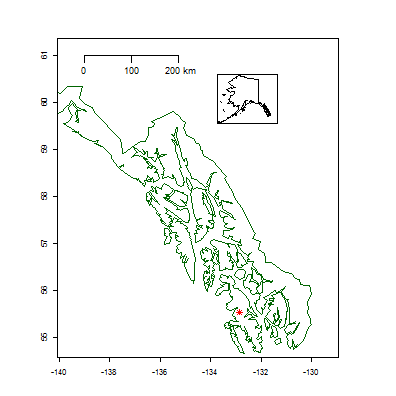
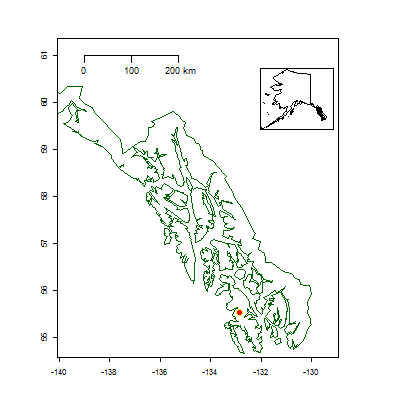
Minor edits to map of SEAK

Changed region(s): [[0.5455, 0.1515, 0.8485, 0.3333], [0.7576, 0.1818, 0.7879, 0.2121]]

diff --git a/BBLReport.html b/BBLReport.html
@@ -176,7 +176,7 @@ hr {
 
 <p>Limited information from past studies is available to determine rainbow trout population age composition and abundance in Black Bear Lake during spring and summer periods when spawning habitat may be limited due to lake drawdown. Regulated flows and lake drawdown from the BBLH Project change the amount of available habitat during spawning, incubation, and rearing for rainbow trout. Based on lake-level data supplied by BBLH, trapping data from the 1997 population estimate study <cite>(Martin Environmental 1998)</cite>, and length-at-age data <cite>(Environaid 1982)</cite>, there appeared to be recruitment to the lake population even when the lake outlet was dewatered during spawning and incubation, but age analysis and spawning observations were cursory and incomplete. Further information was needed to determine age distribution and adult population status.</p>
 
[2 lines of base64/hex data omitted]
 
 <h3>Study Area</h3>
 
@@ -387,35 +387,35 @@ and</p></li>
 
 <h3>References</h3>
 
-<p><cite>Anderson, R. O., and S. J. Gutreuter. 1983. Length, weight, and associated structural indices. In: L.A. Nielsen, D. L. Johnson, and S. S. Lampton (eds). Fisheries Techniques. American Fisheries Society, Bethesda, Maryland.</cite></p>
+<p><cite>Anderson, R. O., and S. J. Gutreuter. 1983.  Length, weight, and associated structural indices. In: L.A. Nielsen, D. L. Johnson, and S. S. Lampton (eds). Fisheries Techniques. American Fisheries Society, Bethesda, Maryland.</cite></p>
 
-<p><cite>Dowdey, S., and S. Wearden. 1991. Statistics for research. 2nd ed. John Wiley &amp; Sons, New York.</cite></p>
+<p><cite>Dowdey, S., and S. Wearden. 1991.  Statistics for research. 2nd ed. John Wiley &amp; Sons, New York.</cite></p>
 
-<p><cite>Environaid. 1982. Late-summer and fall observations in upper Black Bear Creek and Black Bear Lake.</cite></p>
+<p><cite>Environaid. 1982.  Late-summer and fall observations in upper Black Bear Creek and Black Bear Lake.</cite></p>
 
-<p><cite>Fulton, T. (1902) Rate of growth of seas fishes.  Sci. Invert. Fish. Div. Scot. Rept. 20.</cite></p>
+<p><cite>Fulton, T. 1902. Rate of growth of seas fishes.  Sci. Invert. Fish. Div. Scot. Rept. 20.</cite></p>
 
-<p><cite>Konopacky Environmental. 1993a. Proposed plans for Black Bear Lake rainbow trout population, bald eagle nest tree, and spotted frog presence-absence studies associated with the proposed Black Bear Lake Hydroelectric Project near Klawock, Prince of Wales Island, Southeast Alaska. Submitted to Alaska Power &amp; Telephone, Port Townsend, Washington.</cite></p>
+<p><cite>Konopacky Environmental. 1993a.  Proposed plans for Black Bear Lake rainbow trout population, bald eagle nest tree, and spotted frog presence-absence studies associated with the proposed Black Bear Lake Hydroelectric Project near Klawock, Prince of Wales Island, Southeast Alaska. Submitted to Alaska Power &amp; Telephone, Port Townsend, Washington.</cite></p>
 
-<p><cite>Konopacky Environmental. 1993b. Rainbow trout population, bald eagle nest tree, and spotted frog presence-absence studies associated with the proposed Black Bear Lake Hydroelectric Project near Klawock, Prince of Wales Island, Southeast Alaska. Submitted to Alaska Power &amp; Telephone, Port Townsend, Washington.</cite></p>
+<p><cite>Konopacky Environmental. 1993b.  Rainbow trout population, bald eagle nest tree, and spotted frog presence-absence studies associated with the proposed Black Bear Lake Hydroelectric Project near Klawock, Prince of Wales Island, Southeast Alaska. Submitted to Alaska Power &amp; Telephone, Port Townsend, Washington.</cite></p>
 
-<p><cite>Konopacky Environmental. 1995a. Second year of a five-year study of the rainbow trout population in Black Bear Lake, conducted in association with the FERC-licensed Black Bear Lake Hydroelectric Project near Klawock, Prince of Wales Island, Alaska, during 1994. Submitted to Alaska Power &amp; Telephone, Port Townsend, Washington.</cite></p>
+<p><cite>Konopacky Environmental. 1995a.  Second year of a five-year study of the rainbow trout population in Black Bear Lake, conducted in association with the FERC-licensed Black Bear Lake Hydroelectric Project near Klawock, Prince of Wales Island, Alaska, during 1994. Submitted to Alaska Power &amp; Telephone, Port Townsend, Washington.</cite></p>
 
-<p><cite>Konopacky Environmental. 1995b. Third year (1995) of a five-year study of the rainbow trout population in Black Bear Lake, conducted in association with the FERC-licensed Black Bear Lake Hydroelectric Project, near Klawock, Prince of Wales Island, Alaska. Submitted to Alaska Power &amp; Telephone, Port Townsend, Washington.</cite></p>
+<p><cite>Konopacky Environmental. 1995b.  Third year (1995) of a five-year study of the rainbow trout population in Black Bear Lake, conducted in association with the FERC-licensed Black Bear Lake Hydroelectric Project, near Klawock, Prince of Wales Island, Alaska. Submitted to Alaska Power &amp; Telephone, Port Townsend, Washington.</cite></p>
 
-<p><cite>Martin Environmental. 1996. Fourth year (1996) of a five-year study of the rainbow trout population in Black Bear Lake, conducted in association with the FERC-licensed Black Bear Lake Hydroelectric Project near Klawock, Prince of Wales Island, Alaska. Submitted to Alaska Power &amp; Telephone, Port Townsend, Washington.</cite></p>
+<p><cite>Martin Environmental. 1996.  Fourth year (1996) of a five-year study of the rainbow trout population in Black Bear Lake, conducted in association with the FERC-licensed Black Bear Lake Hydroelectric Project near Klawock, Prince of Wales Island, Alaska. Submitted to Alaska Power &amp; Telephone, Port Townsend, Washington.</cite></p>
 
-<p><cite>Martin Environmental. 1997. Fifth year (1997) of a five-year study of the rainbow trout population in Black Bear Lake, conducted in association with the FERC-licensed Black Bear Lake Hydroelectric Project near Klawock, Prince of Wales Island, Alaska. Submitted to Alaska Power &amp; Telephone, Port Townsend, Washington.</cite></p>
+<p><cite>Martin Environmental. 1997.  Fifth year (1997) of a five-year study of the rainbow trout population in Black Bear Lake, conducted in association with the FERC-licensed Black Bear Lake Hydroelectric Project near Klawock, Prince of Wales Island, Alaska. Submitted to Alaska Power &amp; Telephone, Port Townsend, Washington.</cite></p>
 
-<p><cite>Martin Environmental. 1998. An assessment of a five-year (1993-1997) monitoring study of the rainbow trout population in Black Bear Lake, conducted in association with the FERC-licensed Black Bear Lake Hydroelectric Project near Klawock, Prince of Wales Island, Alaska. Submitted to Alaska Power &amp; Telephone, Port Townsend, Washington.</cite></p>
+<p><cite>Martin Environmental. 1998.  An assessment of a five-year (1993-1997) monitoring study of the rainbow trout population in Black Bear Lake, conducted in association with the FERC-licensed Black Bear Lake Hydroelectric Project near Klawock, Prince of Wales Island, Alaska. Submitted to Alaska Power &amp; Telephone, Port Townsend, Washington.</cite></p>
 
 <p><cite>Martin Environmental. 1999. Rainbow trout population in Black Bear Lake, results from the sixth year (1998) of monitoring at the Black Bear Lake Hydroelectric Project, Near Klawock, Prince of Wales Island, Alaska. Submitted to Alaska Power &amp; Telephone, Port Townsend, Washington.</cite></p>
 
-<p><cite>Romey, B.T. (2002) Abundacnce, Age, Size, and Lake-shore Spawning of Rainbow Trout at Black Bear Lake, Southeast Alaska. Report to Black Bear Lake Hydro, Inc., for Summer 2002 Monitoring at the Black Bear Lake Hydroelectric Project, Near Klawock, Prince of Wales island, Alaska.</cite></p>
+<p><cite>Romey, B.T. 2002.  Abundacnce, Age, Size, and Lake-shore Spawning of Rainbow Trout at Black Bear Lake, Southeast Alaska. Report to Black Bear Lake Hydro, Inc., for Summer 2002 Monitoring at the Black Bear Lake Hydroelectric Project, Near Klawock, Prince of Wales island, Alaska.</cite></p>
 
-<p><cite>Seber, G. A. F. 1982. The estimation of animal abundance and related-parameters, second edition. Charles Griffin and Company, Limited. London.</cite></p>
+<p><cite>Seber, G. A. F. 1982.  The estimation of animal abundance and related-parameters, second edition. Charles Griffin and Company, Limited. London.</cite></p>
 
-<p><cite>Zar, J. H. 1996. Biostatistical analysis. 3rd ed. Prentice Hall, Englewood Cliffs, New Jersey.</cite></p>
+<p><cite>Zar, J. H. 1996.  Biostatistical analysis. 3rd ed. Prentice Hall, Englewood Cliffs, New Jersey.</cite></p>
 
 </body>
 

diff --git a/BBLReport.md b/BBLReport.md
@@ -240,35 +240,35 @@ In 2002, Black Bear Lake had the sixth largest (N = 993) rainbow trout populatio
 
 ### References
 
-<cite>Anderson, R. O., and S. J. Gutreuter. 1983. Length, weight, and associated structural indices. In: L.A. Nielsen, D. L. Johnson, and S. S. Lampton (eds). Fisheries Techniques. American Fisheries Society, Bethesda, Maryland.</cite>
+<cite>Anderson, R. O., and S. J. Gutreuter. 1983.  Length, weight, and associated structural indices. In: L.A. Nielsen, D. L. Johnson, and S. S. Lampton (eds). Fisheries Techniques. American Fisheries Society, Bethesda, Maryland.</cite>
 
-<cite>Dowdey, S., and S. Wearden. 1991. Statistics for research. 2nd ed. John Wiley & Sons, New York.</cite>
+<cite>Dowdey, S., and S. Wearden. 1991.  Statistics for research. 2nd ed. John Wiley & Sons, New York.</cite>
 
-<cite>Environaid. 1982. Late-summer and fall observations in upper Black Bear Creek and Black Bear Lake.</cite>
+<cite>Environaid. 1982.  Late-summer and fall observations in upper Black Bear Creek and Black Bear Lake.</cite>
 
-<cite>Fulton, T. (1902) Rate of growth of seas fishes.  Sci. Invert. Fish. Div. Scot. Rept. 20.</cite>
+<cite>Fulton, T. 1902. Rate of growth of seas fishes.  Sci. Invert. Fish. Div. Scot. Rept. 20.</cite>
 
-<cite>Konopacky Environmental. 1993a. Proposed plans for Black Bear Lake rainbow trout population, bald eagle nest tree, and spotted frog presence-absence studies associated with the proposed Black Bear Lake Hydroelectric Project near Klawock, Prince of Wales Island, Southeast Alaska. Submitted to Alaska Power & Telephone, Port Townsend, Washington.</cite>
+<cite>Konopacky Environmental. 1993a.  Proposed plans for Black Bear Lake rainbow trout population, bald eagle nest tree, and spotted frog presence-absence studies associated with the proposed Black Bear Lake Hydroelectric Project near Klawock, Prince of Wales Island, Southeast Alaska. Submitted to Alaska Power & Telephone, Port Townsend, Washington.</cite>
 
-<cite>Konopacky Environmental. 1993b. Rainbow trout population, bald eagle nest tree, and spotted frog presence-absence studies associated with the proposed Black Bear Lake Hydroelectric Project near Klawock, Prince of Wales Island, Southeast Alaska. Submitted to Alaska Power & Telephone, Port Townsend, Washington.</cite>
+<cite>Konopacky Environmental. 1993b.  Rainbow trout population, bald eagle nest tree, and spotted frog presence-absence studies associated with the proposed Black Bear Lake Hydroelectric Project near Klawock, Prince of Wales Island, Southeast Alaska. Submitted to Alaska Power & Telephone, Port Townsend, Washington.</cite>
 
-<cite>Konopacky Environmental. 1995a. Second year of a five-year study of the rainbow trout population in Black Bear Lake, conducted in association with the FERC-licensed Black Bear Lake Hydroelectric Project near Klawock, Prince of Wales Island, Alaska, during 1994. Submitted to Alaska Power & Telephone, Port Townsend, Washington.</cite>
+<cite>Konopacky Environmental. 1995a.  Second year of a five-year study of the rainbow trout population in Black Bear Lake, conducted in association with the FERC-licensed Black Bear Lake Hydroelectric Project near Klawock, Prince of Wales Island, Alaska, during 1994. Submitted to Alaska Power & Telephone, Port Townsend, Washington.</cite>
 
-<cite>Konopacky Environmental. 1995b. Third year (1995) of a five-year study of the rainbow trout population in Black Bear Lake, conducted in association with the FERC-licensed Black Bear Lake Hydroelectric Project, near Klawock, Prince of Wales Island, Alaska. Submitted to Alaska Power & Telephone, Port Townsend, Washington.</cite>
+<cite>Konopacky Environmental. 1995b.  Third year (1995) of a five-year study of the rainbow trout population in Black Bear Lake, conducted in association with the FERC-licensed Black Bear Lake Hydroelectric Project, near Klawock, Prince of Wales Island, Alaska. Submitted to Alaska Power & Telephone, Port Townsend, Washington.</cite>
 
-<cite>Martin Environmental. 1996. Fourth year (1996) of a five-year study of the rainbow trout population in Black Bear Lake, conducted in association with the FERC-licensed Black Bear Lake Hydroelectric Project near Klawock, Prince of Wales Island, Alaska. Submitted to Alaska Power & Telephone, Port Townsend, Washington.</cite>
+<cite>Martin Environmental. 1996.  Fourth year (1996) of a five-year study of the rainbow trout population in Black Bear Lake, conducted in association with the FERC-licensed Black Bear Lake Hydroelectric Project near Klawock, Prince of Wales Island, Alaska. Submitted to Alaska Power & Telephone, Port Townsend, Washington.</cite>
 
-<cite>Martin Environmental. 1997. Fifth year (1997) of a five-year study of the rainbow trout population in Black Bear Lake, conducted in association with the FERC-licensed Black Bear Lake Hydroelectric Project near Klawock, Prince of Wales Island, Alaska. Submitted to Alaska Power & Telephone, Port Townsend, Washington.</cite>
+<cite>Martin Environmental. 1997.  Fifth year (1997) of a five-year study of the rainbow trout population in Black Bear Lake, conducted in association with the FERC-licensed Black Bear Lake Hydroelectric Project near Klawock, Prince of Wales Island, Alaska. Submitted to Alaska Power & Telephone, Port Townsend, Washington.</cite>
 
-<cite>Martin Environmental. 1998. An assessment of a five-year (1993-1997) monitoring study of the rainbow trout population in Black Bear Lake, conducted in association with the FERC-licensed Black Bear Lake Hydroelectric Project near Klawock, Prince of Wales Island, Alaska. Submitted to Alaska Power & Telephone, Port Townsend, Washington.</cite>
+<cite>Martin Environmental. 1998.  An assessment of a five-year (1993-1997) monitoring study of the rainbow trout population in Black Bear Lake, conducted in association with the FERC-licensed Black Bear Lake Hydroelectric Project near Klawock, Prince of Wales Island, Alaska. Submitted to Alaska Power & Telephone, Port Townsend, Washington.</cite>
 
 <cite>Martin Environmental. 1999. Rainbow trout population in Black Bear Lake, results from the sixth year (1998) of monitoring at the Black Bear Lake Hydroelectric Project, Near Klawock, Prince of Wales Island, Alaska. Submitted to Alaska Power & Telephone, Port Townsend, Washington.</cite>
 
-<cite>Romey, B.T. (2002) Abundacnce, Age, Size, and Lake-shore Spawning of Rainbow Trout at Black Bear Lake, Southeast Alaska. Report to Black Bear Lake Hydro, Inc., for Summer 2002 Monitoring at the Black Bear Lake Hydroelectric Project, Near Klawock, Prince of Wales island, Alaska.</cite>
+<cite>Romey, B.T. 2002.  Abundacnce, Age, Size, and Lake-shore Spawning of Rainbow Trout at Black Bear Lake, Southeast Alaska. Report to Black Bear Lake Hydro, Inc., for Summer 2002 Monitoring at the Black Bear Lake Hydroelectric Project, Near Klawock, Prince of Wales island, Alaska.</cite>
 
-<cite>Seber, G. A. F. 1982. The estimation of animal abundance and related-parameters, second edition. Charles Griffin and Company, Limited. London.</cite>
+<cite>Seber, G. A. F. 1982.  The estimation of animal abundance and related-parameters, second edition. Charles Griffin and Company, Limited. London.</cite>
 
-<cite>Zar, J. H. 1996. Biostatistical analysis. 3rd ed. Prentice Hall, Englewood Cliffs, New Jersey.</cite>
+<cite>Zar, J. H. 1996.  Biostatistical analysis. 3rd ed. Prentice Hall, Englewood Cliffs, New Jersey.</cite>
 
 
 
